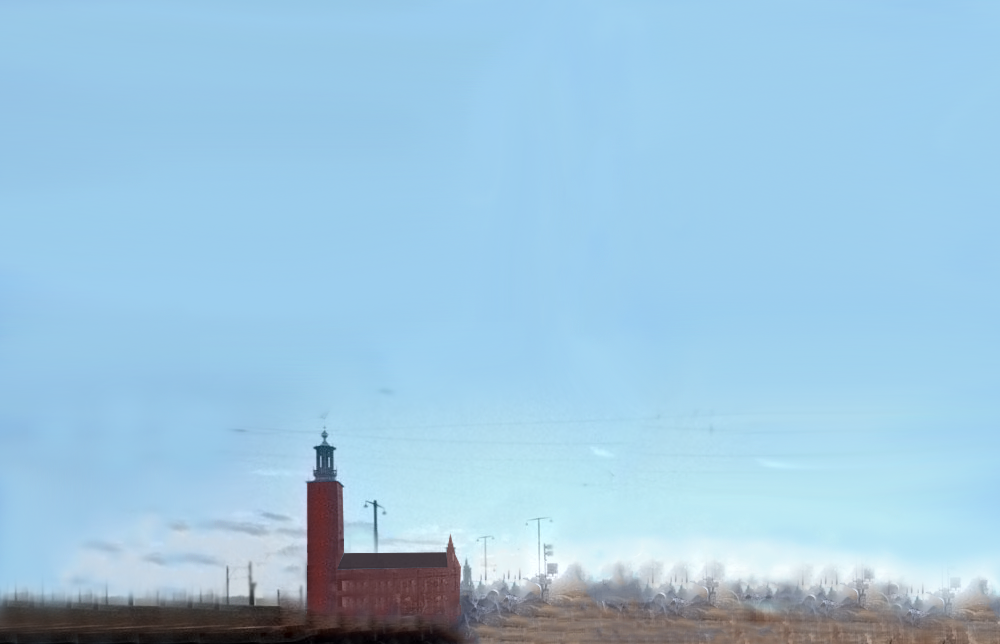
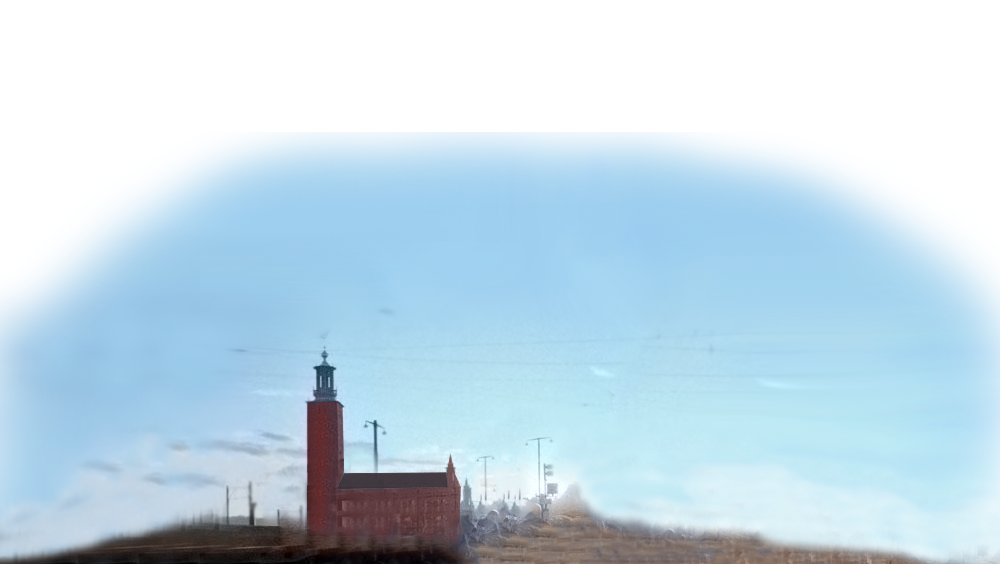
sky container

diff --git a/resources/obj/tram/sky.js b/resources/obj/tram/sky.js
@@ -1,0 +1,21 @@
+{
+    "uvs": [[0.0, 1.0, 0.05000000074505806, 1.0, 0.10000000149011612, 1.0, 0.15000000596046448, 1.0, 0.20000000298023224, 1.0, 0.25, 1.0, 0.30000001192092896, 1.0, 0.3500000238418579, 1.0, 0.40000003576278687, 1.0, 0.4500000476837158, 1.0, 0.5000000596046448, 1.0, 0.5500000715255737, 1.0, 0.6000000834465027, 1.0, 0.6500000953674316, 1.0, 0.7000001072883606, 1.0, 0.7500001192092896, 1.0, 0.8000001311302185, 1.0, 0.8500001430511475, 1.0, 0.9000001549720764, 1.0, 0.9500001668930054, 1.0, 1.0000001192092896, 1.0, 0.0, 0.75, 0.05000000074505806, 0.75, 0.10000000149011612, 0.75, 0.15000000596046448, 0.75, 0.20000000298023224, 0.75, 0.25, 0.75, 0.30000001192092896, 0.75, 0.3500000238418579, 0.75, 0.40000003576278687, 0.75, 0.4500000476837158, 0.75, 0.5000000596046448, 0.75, 0.5500000715255737, 0.75, 0.6000000834465027, 0.75, 0.6500000953674316, 0.75, 0.7000001072883606, 0.75, 0.7500001192092896, 0.75, 0.8000001311302185, 0.75, 0.8500001430511475, 0.75, 0.9000001549720764, 0.75, 0.9500001668930054, 0.75, 1.0000001192092896, 0.75, 0.0, 0.5, 0.05000000074505806, 0.5, 0.10000000149011612, 0.5, 0.15000000596046448, 0.5, 0.20000000298023224, 0.5, 0.25, 0.5, 0.30000001192092896, 0.5, 0.3500000238418579, 0.5, 0.40000003576278687, 0.5, 0.4500000476837158, 0.5, 0.5000000596046448, 0.5, 0.5500000715255737, 0.5, 0.6000000834465027, 0.5, 0.6500000953674316, 0.5, 0.7000001072883606, 0.5, 0.7500001192092896, 0.5, 0.8000001311302185, 0.5, 0.8500001430511475, 0.5, 0.9000001549720764, 0.5, 0.9500001668930054, 0.5, 1.0000001192092896, 0.5, 0.0, 0.25, 0.05000000074505806, 0.25, 0.10000000149011612, 0.25, 0.15000000596046448, 0.25, 0.20000000298023224, 0.25, 0.25, 0.25, 0.30000001192092896, 0.25, 0.3500000238418579, 0.25, 0.40000003576278687, 0.25, 0.4500000476837158, 0.25, 0.5000000596046448, 0.25, 0.5500000715255737, 0.25, 0.6000000834465027, 0.25, 0.6500000953674316, 0.25, 0.7000001072883606, 0.25, 0.7500001192092896, 0.25, 0.8000001311302185, 0.25, 0.8500001430511475, 0.25, 0.9000001549720764, 0.25, 0.9500001668930054, 0.25, 1.0000001192092896, 0.25, 0.0, 0.0, 0.05000000074505806, 0.0, 0.10000000149011612, 0.0, 0.15000000596046448, 0.0, 0.20000000298023224, 0.0, 0.25, 0.0, 0.30000001192092896, 0.0, 0.3500000238418579, 0.0, 0.40000003576278687, 0.0, 0.4500000476837158, 0.0, 0.5000000596046448, 0.0, 0.5500000715255737, 0.0, 0.6000000834465027, 0.0, 0.6500000953674316, 0.0, 0.7000001072883606, 0.0, 0.7500001192092896, 0.0, 0.8000001311302185, 0.0, 0.8500001430511475, 0.0, 0.9000001549720764, 0.0, 0.9500001668930054, 0.0, 1.0000001192092896, 0.0]], 
+    "faces": [41, 1, 0, 20, 21, 1, 0, 21, 22, 0, 1, 2, 3, 41, 2, 1, 21, 22, 2, 1, 22, 23, 4, 0, 3, 5, 41, 3, 2, 22, 23, 3, 2, 23, 24, 6, 4, 5, 7, 41, 4, 3, 23, 24, 4, 3, 24, 25, 8, 6, 7, 9, 41, 5, 4, 24, 25, 5, 4, 25, 26, 10, 8, 9, 11, 41, 6, 5, 25, 26, 6, 5, 26, 27, 12, 10, 11, 13, 41, 7, 6, 26, 27, 7, 6, 27, 28, 14, 12, 13, 15, 41, 8, 7, 27, 28, 8, 7, 28, 29, 16, 14, 15, 17, 41, 9, 8, 28, 29, 9, 8, 29, 30, 18, 16, 17, 19, 41, 10, 9, 29, 30, 10, 9, 30, 31, 20, 18, 19, 21, 41, 11, 10, 30, 31, 11, 10, 31, 32, 22, 20, 21, 23, 41, 12, 11, 31, 32, 12, 11, 32, 33, 24, 22, 23, 25, 41, 13, 12, 32, 33, 13, 12, 33, 34, 26, 24, 25, 27, 41, 14, 13, 33, 34, 14, 13, 34, 35, 28, 26, 27, 29, 41, 15, 14, 34, 35, 15, 14, 35, 36, 30, 28, 29, 31, 41, 16, 15, 35, 36, 16, 15, 36, 37, 32, 30, 31, 33, 41, 17, 16, 36, 37, 17, 16, 37, 38, 34, 32, 33, 35, 41, 18, 17, 37, 38, 18, 17, 38, 39, 36, 34, 35, 37, 41, 19, 18, 38, 39, 19, 18, 39, 40, 38, 36, 37, 39, 41, 0, 19, 39, 20, 20, 19, 40, 41, 1, 38, 39, 2, 41, 21, 20, 40, 41, 22, 21, 42, 43, 40, 41, 42, 43, 41, 22, 21, 41, 42, 23, 22, 43, 44, 44, 40, 43, 45, 41, 23, 22, 42, 43, 24, 23, 44, 45, 46, 44, 45, 47, 41, 24, 23, 43, 44, 25, 24, 45, 46, 48, 46, 47, 49, 41, 25, 24, 44, 45, 26, 25, 46, 47, 50, 48, 49, 51, 41, 26, 25, 45, 46, 27, 26, 47, 48, 52, 50, 51, 53, 41, 27, 26, 46, 47, 28, 27, 48, 49, 54, 52, 53, 55, 41, 28, 27, 47, 48, 29, 28, 49, 50, 56, 54, 55, 57, 41, 29, 28, 48, 49, 30, 29, 50, 51, 58, 56, 57, 59, 41, 30, 29, 49, 50, 31, 30, 51, 52, 60, 58, 59, 61, 41, 31, 30, 50, 51, 32, 31, 52, 53, 62, 60, 61, 63, 41, 32, 31, 51, 52, 33, 32, 53, 54, 64, 62, 63, 65, 41, 33, 32, 52, 53, 34, 33, 54, 55, 66, 64, 65, 67, 41, 34, 33, 53, 54, 35, 34, 55, 56, 68, 66, 67, 69, 41, 35, 34, 54, 55, 36, 35, 56, 57, 70, 68, 69, 71, 41, 36, 35, 55, 56, 37, 36, 57, 58, 72, 70, 71, 73, 41, 37, 36, 56, 57, 38, 37, 58, 59, 74, 72, 73, 75, 41, 38, 37, 57, 58, 39, 38, 59, 60, 76, 74, 75, 77, 41, 39, 38, 58, 59, 40, 39, 60, 61, 78, 76, 77, 79, 41, 20, 39, 59, 40, 41, 40, 61, 62, 41, 78, 79, 42, 41, 41, 40, 60, 61, 43, 42, 63, 64, 80, 81, 82, 83, 41, 42, 41, 61, 62, 44, 43, 64, 65, 84, 80, 83, 85, 41, 43, 42, 62, 63, 45, 44, 65, 66, 86, 84, 85, 87, 41, 44, 43, 63, 64, 46, 45, 66, 67, 88, 86, 87, 89, 41, 45, 44, 64, 65, 47, 46, 67, 68, 90, 88, 89, 91, 41, 46, 45, 65, 66, 48, 47, 68, 69, 92, 90, 91, 93, 41, 47, 46, 66, 67, 49, 48, 69, 70, 94, 92, 93, 95, 41, 48, 47, 67, 68, 50, 49, 70, 71, 96, 94, 95, 97, 41, 49, 48, 68, 69, 51, 50, 71, 72, 98, 96, 97, 99, 41, 50, 49, 69, 70, 52, 51, 72, 73, 100, 98, 99, 101, 41, 51, 50, 70, 71, 53, 52, 73, 74, 102, 100, 101, 103, 41, 52, 51, 71, 72, 54, 53, 74, 75, 104, 102, 103, 105, 41, 53, 52, 72, 73, 55, 54, 75, 76, 106, 104, 105, 107, 41, 54, 53, 73, 74, 56, 55, 76, 77, 108, 106, 107, 109, 41, 55, 54, 74, 75, 57, 56, 77, 78, 110, 108, 109, 111, 41, 56, 55, 75, 76, 58, 57, 78, 79, 112, 110, 111, 113, 41, 57, 56, 76, 77, 59, 58, 79, 80, 114, 112, 113, 115, 41, 58, 57, 77, 78, 60, 59, 80, 81, 116, 114, 115, 117, 41, 59, 58, 78, 79, 61, 60, 81, 82, 118, 116, 117, 119, 41, 40, 59, 79, 60, 62, 61, 82, 83, 81, 118, 119, 82, 41, 61, 60, 0, 1, 64, 63, 84, 85, 120, 121, 122, 123, 41, 62, 61, 1, 2, 65, 64, 85, 86, 124, 120, 123, 125, 41, 63, 62, 2, 3, 66, 65, 86, 87, 126, 124, 125, 127, 41, 64, 63, 3, 4, 67, 66, 87, 88, 128, 126, 127, 129, 41, 65, 64, 4, 5, 68, 67, 88, 89, 130, 128, 129, 131, 41, 66, 65, 5, 6, 69, 68, 89, 90, 132, 130, 131, 133, 41, 67, 66, 6, 7, 70, 69, 90, 91, 134, 132, 133, 135, 41, 68, 67, 7, 8, 71, 70, 91, 92, 136, 134, 135, 137, 41, 69, 68, 8, 9, 72, 71, 92, 93, 138, 136, 137, 139, 41, 70, 69, 9, 10, 73, 72, 93, 94, 140, 138, 139, 141, 41, 71, 70, 10, 11, 74, 73, 94, 95, 142, 140, 141, 143, 41, 72, 71, 11, 12, 75, 74, 95, 96, 144, 142, 143, 145, 41, 73, 72, 12, 13, 76, 75, 96, 97, 146, 144, 145, 147, 41, 74, 73, 13, 14, 77, 76, 97, 98, 148, 146, 147, 149, 41, 75, 74, 14, 15, 78, 77, 98, 99, 150, 148, 149, 151, 41, 76, 75, 15, 16, 79, 78, 99, 100, 152, 150, 151, 153, 41, 77, 76, 16, 17, 80, 79, 100, 101, 154, 152, 153, 155, 41, 78, 77, 17, 18, 81, 80, 101, 102, 156, 154, 155, 157, 41, 79, 78, 18, 19, 82, 81, 102, 103, 158, 156, 157, 159, 41, 60, 79, 19, 0, 83, 82, 103, 104, 121, 158, 159, 122], 
+    "vertices": [4.56283194, 1.79386095, -1.68437622, 4.42744916, 2.96430986, -1.68437622, 4.03455308, 4.02018723, -1.68437622, 3.42260301, 4.85813608, -1.68437622, 2.65150086, 5.3961325, -1.68437622, 1.79672748, 5.58151361, -1.68437622, 0.94195411, 5.39613273, -1.68437622, 0.17085178, 4.85813653, -1.68437622, -0.44109845, 4.02018746, -1.68437622, -0.83399486, 2.96430997, -1.68437622, -0.96937764, 1.79386072, -1.68437622, -0.83399486, 0.62341147, -1.68437622, -0.44109845, -0.43246602, -1.68437622, 0.17085178, -1.27041509, -1.68437622, 0.94195419, -1.80841175, -1.68437622, 1.79672773, -1.99379263, -1.68437622, 2.65150136, -1.80841175, -1.68437622, 3.42260385, -1.27041509, -1.68437622, 4.03455425, -0.43246579, -1.68437622, 4.42745066, 0.62341204, -1.68437622, 4.56283194, 1.79386095, 16.09904859, 4.42744916, 2.96430986, 16.09904859, 4.03455308, 4.02018723, 16.09904859, 3.42260301, 4.85813608, 16.09904859, 2.65150086, 5.3961325, 16.09904859, 1.79672748, 5.58151361, 16.09904859, 0.94195411, 5.39613273, 16.09904859, 0.17085178, 4.85813653, 16.09904859, -0.44109845, 4.02018746, 16.09904859, -0.83399486, 2.96430997, 16.09904859, -0.96937764, 1.79386072, 16.09904859, -0.83399486, 0.62341147, 16.09904859, -0.44109845, -0.43246602, 16.09904859, 0.17085178, -1.27041509, 16.09904859, 0.94195419, -1.80841175, 16.09904859, 1.79672773, -1.99379263, 16.09904859, 2.65150136, -1.80841175, 16.09904859, 3.42260385, -1.27041509, 16.09904859, 4.03455425, -0.43246579, 16.09904859, 4.42745066, 0.62341204, 16.09904859, 4.59077236, 1.79386095, 16.09904859, 4.45402214, 2.97613259, 16.09904859, 4.05715729, 4.04267537, 16.09904859, 3.43902583, 4.88908846, 16.09904859, 2.66013477, 5.43251913, 16.09904859, 1.7967274, 5.61977269, 16.09904859, 0.93331994, 5.43251935, 16.09904859, 0.1544288, 4.88908868, 16.09904859, -0.46370283, 4.0426756, 16.09904859, -0.86056784, 2.97613281, 16.09904859, -0.99731806, 1.79386095, 16.09904859, -0.86056784, 0.61158908, 16.09904859, -0.463703, -0.45495393, 16.09904859, 0.15442847, -1.30136747, 16.09904859, 0.93331969, -1.8447986, 16.09904859, 1.79672748, -2.03205216, 16.09904859, 2.66013527, -1.84479883, 16.09904859, 3.43902683, -1.30136816, 16.09904859, 4.05715879, -0.45495462, 16.09904859, 4.4540238, 0.61158863, 16.09904859, 4.59077236, 1.79386095, -1.68437622, 4.45402214, 2.97613259, -1.68437622, 4.05715729, 4.04267537, -1.68437622, 3.43902583, 4.88908846, -1.68437622, 2.66013477, 5.43251913, -1.68437622, 1.7967274, 5.61977269, -1.68437622, 0.93331994, 5.43251935, -1.68437622, 0.1544288, 4.88908868, -1.68437622, -0.46370283, 4.0426756, -1.68437622, -0.86056784, 2.97613281, -1.68437622, -0.99731806, 1.79386095, -1.68437622, -0.86056784, 0.61158908, -1.68437622, -0.463703, -0.45495393, -1.68437622, 0.15442847, -1.30136747, -1.68437622, 0.93331969, -1.8447986, -1.68437622, 1.79672748, -2.03205216, -1.68437622, 2.66013527, -1.84479883, -1.68437622, 3.43902683, -1.30136816, -1.68437622, 4.05715879, -0.45495462, -1.68437622, 4.4540238, 0.61158863, -1.68437622], 
+    "materials": [{
+        "opacity": 0.0, 
+        "colorDiffuse": [0.029999995678663183, 0.36419632977539784, 0.4000000059604645], 
+        "depthWrite": true, 
+        "blending": "NormalBlending", 
+        "shading": "Lambert", 
+        "DbgName": "lambert6", 
+        "transparent": true, 
+        "depthTest": true, 
+        "vertexColors": false
+    }], 
+    "normals": [-0.95105654, 0.0, 0.30901694, -1.0, 0.0, 8.8e-07, -1.0, 0.0, 8.8e-07, -0.95105654, 0.0, 0.30901694, -0.80901706, 0.0, 0.58778518, -0.80901706, 0.0, 0.58778518, -0.58778524, 0.0, 0.80901694, -0.58778524, 0.0, 0.80901694, -0.30901709, 0.0, 0.95105648, -0.30901709, 0.0, 0.95105648, -1e-07, 0.0, 1.0, -1e-07, 0.0, 1.0, 0.30901688, 0.0, 0.9510566, 0.30901688, 0.0, 0.9510566, 0.58778524, 0.0, 0.80901706, 0.58778524, 0.0, 0.80901706, 0.809017, 0.0, 0.5877853, 0.809017, 0.0, 0.5877853, 0.95105654, 0.0, 0.30901703, 0.95105654, 0.0, 0.30901703, 1.0, 0.0, 0.0, 1.0, 0.0, 0.0, 0.95105654, 0.0, -0.30901703, 0.95105654, 0.0, -0.30901703, 0.809017, 0.0, -0.5877853, 0.809017, 0.0, -0.5877853, 0.5877853, 0.0, -0.809017, 0.5877853, 0.0, -0.809017, 0.30901703, 0.0, -0.95105654, 0.30901703, 0.0, -0.95105654, 0.0, 0.0, -1.0, 0.0, 0.0, -1.0, -0.309017, 0.0, -0.95105648, -0.309017, 0.0, -0.95105648, -0.58778524, 0.0, -0.80901694, -0.58778524, 0.0, -0.80901694, -0.80901694, 0.0, -0.58778524, -0.80901694, 0.0, -0.58778524, -0.95105678, 0.0, -0.30901629, -0.95105678, 0.0, -0.30901629, 0.0, 0.99999994, 0.0, 0.0, 1.0, 0.0, 0.0, 0.99999988, 0.0, 0.0, 0.99999994, 0.0, 0.0, 0.99999994, 0.0, 0.0, 0.99999994, 0.0, 0.0, 1.0, 0.0, 0.0, 0.99999994, 0.0, 0.0, 1.0, 0.0, 0.0, 1.0, 0.0, 0.0, 1.00000012, 0.0, 0.0, 0.99999994, 0.0, 0.0, 0.99999994, 0.0, 0.0, 0.99999994, 0.0, 0.0, 0.99999994, 0.0, 0.0, 1.0, 0.0, 0.0, 1.0, 0.0, 0.0, 1.0, 0.0, 0.0, 1.0, 0.0, 0.0, 1.0, 0.0, 0.0, 1.0, 0.0, 0.0, 1.0, 0.0, 0.0, 1.0, 0.0, 0.0, 0.99999994, 0.0, 0.0, 1.0, 0.0, 0.0, 1.0, 0.0, 0.0, 0.99999994, 0.0, 0.0, 1.0, 0.0, 0.0, 1.0, 0.0, 0.0, 0.99999988, 0.0, 0.0, 1.0, 0.0, 0.0, 0.99999988, 0.0, 0.0, 1.0, 0.0, 0.0, 0.99999994, 0.0, 0.0, 0.99999988, 0.0, 0.0, 0.99999994, 0.0, 0.0, 1.0, 0.0, 0.0, 0.99999994, 0.0, 0.0, 0.99999994, 0.0, 0.0, 0.99999988, 0.0, 0.9510566, 0.0, -0.309017, 0.99999994, -0.0, -9.6e-07, 0.99999994, -0.0, -9.6e-07, 0.9510566, 0.0, -0.309017, 0.809017, 0.0, -0.5877853, 0.809017, 0.0, -0.5877853, 0.5877853, 0.0, -0.809017, 0.5877853, 0.0, -0.809017, 0.30901703, 0.0, -0.95105648, 0.30901703, 0.0, -0.95105648, 9e-08, 0.0, -1.00000012, 9e-08, 0.0, -1.00000012, -0.30901694, 0.0, -0.9510566, -0.30901694, 0.0, -0.9510566, -0.58778524, 0.0, -0.80901712, -0.58778524, 0.0, -0.80901712, -0.809017, 0.0, -0.58778548, -0.809017, 0.0, -0.58778548, -0.9510566, 0.0, -0.30901706, -0.9510566, 0.0, -0.30901706, -1.0, 0.0, 0.0, -1.0, 0.0, 0.0, -0.95105648, 0.0, 0.30901688, -0.95105648, 0.0, 0.30901688, -0.80901706, 0.0, 0.58778507, -0.80901706, 0.0, 0.58778507, -0.58778542, 0.0, 0.80901676, -0.58778542, 0.0, 0.80901676, -0.30901709, 0.0, 0.95105642, -0.30901709, 0.0, 0.95105642, -9e-08, 0.0, 1.0, -9e-08, 0.0, 1.0, 0.30901679, 0.0, 0.95105654, 0.30901679, 0.0, 0.95105654, 0.58778512, 0.0, 0.80901706, 0.58778512, 0.0, 0.80901706, 0.80901688, 0.0, 0.5877853, 0.80901688, 0.0, 0.5877853, 0.95105678, -0.0, 0.30901599, 0.95105678, -0.0, 0.30901599, 0.0, -0.99999994, 0.0, 0.0, -0.99999988, 0.0, 0.0, -1.0, 0.0, 0.0, -0.99999994, 0.0, 0.0, -0.99999994, 0.0, 0.0, -0.99999994, 0.0, 0.0, -1.0, 0.0, 0.0, -0.99999994, 0.0, 0.0, -1.0, 0.0, 0.0, -0.99999994, 0.0, 0.0, -0.99999994, 0.0, 0.0, -1.00000012, 0.0, 0.0, -0.99999994, 0.0, 0.0, -0.99999994, 0.0, 0.0, -0.99999994, 0.0, 0.0, -0.99999994, 0.0, 0.0, -1.0, 0.0, 0.0, -1.0, 0.0, 0.0, -1.0, 0.0, 0.0, -1.0, 0.0, 0.0, -1.0, 0.0, 0.0, -1.0, 0.0, 0.0, -0.99999994, 0.0, 0.0, -1.0, 0.0, 0.0, -1.0, 0.0, 0.0, -1.0, 0.0, 0.0, -0.99999988, 0.0, 0.0, -1.0, 0.0, 0.0, -0.99999988, 0.0, 0.0, -0.99999994, 0.0, 0.0, -0.99999988, 0.0, 0.0, -0.99999994, 0.0, 0.0, -0.99999994, 0.0, 0.0, -1.0, 0.0, 0.0, -0.99999994, 0.0, 0.0, -1.00000012, 0.0, 0.0, -0.99999994, 0.0, 0.0, -1.0, 0.0, 0.0, -0.99999988, 0.0, 0.0, -0.99999994, 0.0], 
+    "metadata": {
+        "formatVersion": 3.1, 
+        "generatedBy": "Maya Exporter"
+    }
+}

diff --git a/app.js b/app.js
@@ -55,6 +55,7 @@ var platform = new THREE.Object3D();
 var invisibilityContainer = new THREE.Object3D();
 var portal = new THREE.Object3D();
 var canvas = new THREE.Object3D();
+var sky = new THREE.Object3D();
 loadTram();
 tramModel.add(tramBase);
 tramModel.add(tramFrame);
@@ -62,6 +63,7 @@ tramModel.add(platform);
 tramModel.add(invisibilityContainer);
 tramModel.add(portal);
 tramModel.add(canvas);
+tramModel.add(sky);
 
 //tramModel.rotation.x = Math.PI / 2;
 tramModel.rotation.y = Math.PI;
@@ -286,16 +288,26 @@ function loadTram() {
     var canvasGeometry = new THREE.Geometry();
     var canvasLoader = new THREE.JSONLoader();
     canvasLoader.load('resources/obj/tram/canvas.js', function (canvasGeometry) {
-        var canvasMaterial = new THREE.MeshPhongMaterial({
-            specular: 0x111111,
-            map: canvasTextureLoader.load('resources/obj/tram/bg.png')
-            //normalScale: new THREE.Vector2(0.75, 0.75),
-        });
-        canvasMesh = new THREE.Mesh(canvasGeometry, canvasMaterial);
+        var canvasMaterial = new THREE.MeshPhongMaterial();
+        canvasMesh 
         canvasMesh.renderOrder = 2;
         // add the model to the tramBase object, not the scene
         canvas.add(canvasMesh);
         canvasMesh.scale.set(.4, .4, .4);
+       // mesh.rotation.x = THREE.Math.degToRad(90);
+    });
+    
+    var skyMesh;
+    var skyTextureLoader = new THREE.TextureLoader();
+    var skyGeometry = new THREE.Geometry();
+    var skyLoader = new THREE.JSONLoader();
+    skyLoader.load('resources/obj/tram/canvas.js', function (skyGeometry) {
+         var skyMaterial = new THREE.MeshLambertMaterial({color: 0xCCF2FF});
+        skyMesh = new THREE.Mesh(skyGeometry, skyMaterial);
+        skyMesh.renderOrder = 2;
+        // add the model to the tramBase object, not the scene
+        sky.add(skyMesh);
+        skyMesh.scale.set(.4, .4, .4);
        // mesh.rotation.x = THREE.Math.degToRad(90);
     });
     

diff --git a/index.html b/index.html
@@ -39,7 +39,7 @@
   <body>
     <div id="argon">
       <div onclick="hideMe(this)" id="description">
-        <h2>background</h2>
+        <h2>Sky</h2>
           <h5>(click to dismiss)</h5>
       </div>
     </div>
